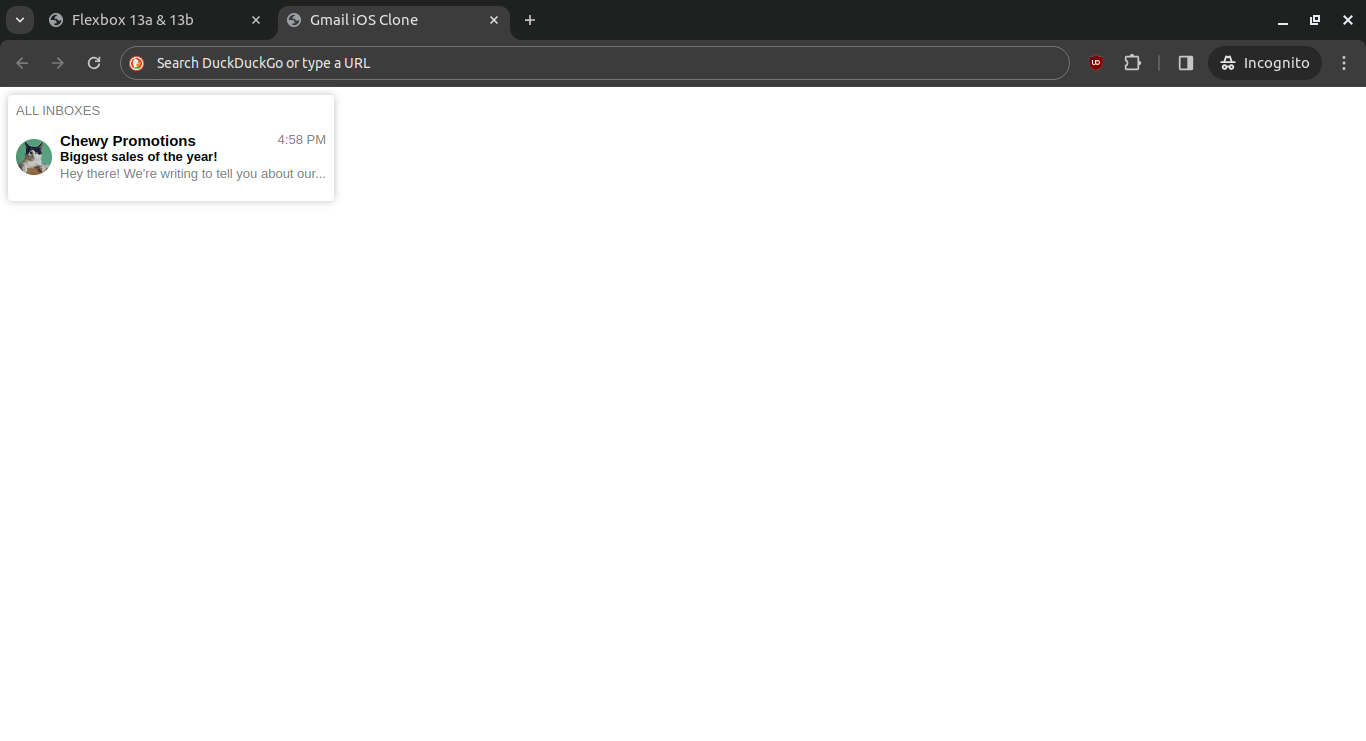
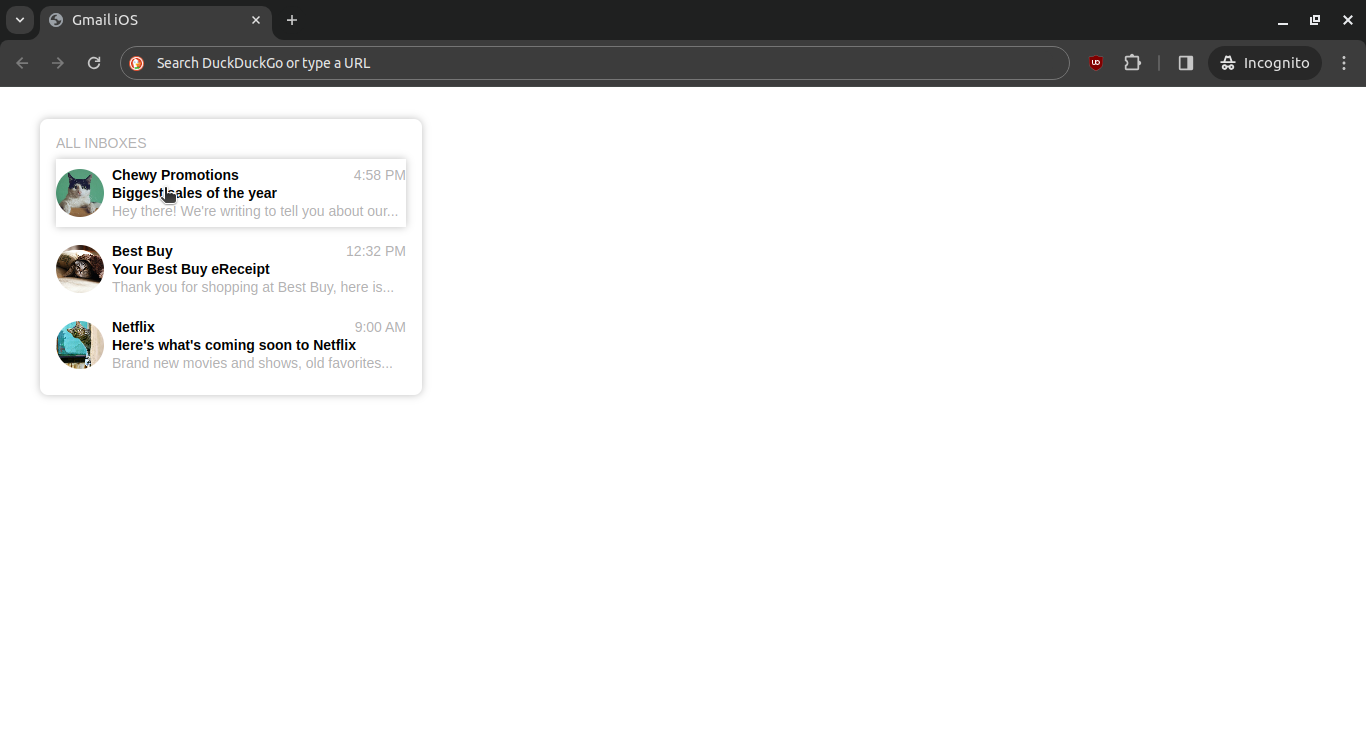
feat: Gmail iOS clone
multiple emails are enabled now.

diff --git a/gmail-ios-clone/index.html b/gmail-ios-clone/index.html
@@ -1,29 +1,64 @@
 <!doctype html>
 <html>
 <head>
-    <title>Gmail iOS Clone</title>
+    <title>Gmail iOS</title>
     <link rel="stylesheet" href="style.css">
 </head>
 <body>
-    <div class="border-per-email">
-        <div class="type-email">ALL INBOXES</div>
+    <div class="outer-box">
+
+        <p class="all-inboxes">ALL INBOXES</p>
+
         <div class="email">
-            <div class="photo-div">
-                <img class="photo-img" src="cat-1.jpg">
+            <div class="profile-picture-div">
+                <img class="profile-picture-img" src="cat-1.jpg">
             </div>
-            <div class="text-div">
-                <div class="sender">
-                    <span class="sender-span">Chewy Promotions</span>
-                    <span class="time">4:58 PM<span>
-                </div>
-                <div class="header">
-                    Biggest sales of the year!
-                </div>
-                <div class="content">
+            <div class="content">
+                <p class="sender-and-time">
+                    <span class="sender">Chewy Promotions</span>
+                    <span class="time">4:58 PM</span>
+                </p>
+                <p class="header">Biggest sales of the year</p>
+                <p class="snapshot">
                     Hey there! We're writing to tell you about our...
-                </div>
+                </p>
             </div>
         </div>
-    </div>    
+
+        <div class="email">
+            <div class="profile-picture-div">
+                <img class="profile-picture-img" src="cat-2.jpg">
+            </div>
+            <div class="content">
+                <p class="sender-and-time">
+                    <span class="sender">Best Buy</span>
+                    <span class="time">12:32 PM</span>
+                </p>
+                <p class="header">Your Best Buy eReceipt</p>
+                <p class="snapshot">
+                    Thank you for shopping at Best Buy, here is...
+                </p>
+            </div>
+        </div>
+
+        <div class="email">
+            <div class="profile-picture-div">
+                <img class="profile-picture-img" src="cat-3.jpg">
+            </div>
+            <div class="content">
+                <p class="sender-and-time">
+                    <span class="sender">Netflix</span>
+                    <span class="time">9:00 AM</span>
+                </p>
+                <p class="header">
+                    Here's what's coming soon to Netflix
+                </p>
+                <p class="snapshot">
+                    Brand new movies and shows, old favorites...
+                </p>
+            </div>
+        </div>
+
+    </div>
 </body>
 </html>

diff --git a/gmail-ios-clone/style.css b/gmail-ios-clone/style.css
@@ -1,59 +1,62 @@
-p, div {
+p {
+    color: #B3B2B3;
     font-family: Arial;
-    font-size: 13px;
+    font-size: 14px;
 }
 
-.border-per-email {
-    border-radius: 4px;
+.outer-box {
+    width: 350px;
+
+    /* border: 1px solid #B3B2B3; */
+    border: none;
+    border-radius: 8px;
+    padding: 16px;
+    margin: 32px;
+
     box-shadow: 0 0 8px rgba(0,0,0,0.25);
-    padding: 8px;
-    width: 310px;
-    height: 90px;
 }
 
-.type-email, .time, .content {
-    color: gray;
-}
-
-.type-email {
-    margin-bottom: 14px;
+.all-inboxes {
+    margin: 0;
 }
 
 .email {
     display: flex;
     justify-content: space-between;
-    width: 100%;
-}
-
-.photo-div {
-    display: flex;
-    justify-content: center;
     align-items: center;
-    margin-right: 0;
+    margin-top: 8px;
+    cursor: pointer;
+    transition: box-shadow 0.15s;
 }
 
-.photo-img {
-    width: 36px;
-    height: 36px;
+.email:active {
+    box-shadow: 0 0 8px rgba(0,0,0,0.25);
+}
+
+.profile-picture-div {
+    width: 56px;
+    display: flex;
+    align-items: center;
+}
+
+.profile-picture-img {
+    width: 48px;
+    height: 48px;
+    border-radius: 24px;
     object-fit: cover;
-    border-radius: 18px;
-    
 }
 
-.sender {
+.content {
+    flex: 1;
+    line-height: 4px;
+}
+
+.sender-and-time {
     display: flex;
     justify-content: space-between;
 }
 
-.sender-span {
+.sender, .header {
+    color: black;
     font-weight: bold;
-    font-size: 15px;
-}
-
-.header {
-    font-weight: bold;
-}
-
-.content {
-    margin-top: 2px;
 }

diff --git a/gmail-ios-clone/README.md b/gmail-ios-clone/README.md
@@ -1,4 +1,4 @@
-Gmail iOS clone from [SimpleWebDev exercise 13c](https://www.youtube.com/watch?v=G3e-cpL7ofc&list=PLEPye7A7EcQZrT3VSBb7jtxnxIfY3yyG6&index=3&t=16094s).
+Gmail iOS clone from [SimpleWebDev exercise 13e](https://youtu.be/G3e-cpL7ofc?list=PLEPye7A7EcQZrT3VSBb7jtxnxIfY3yyG6&t=17066).
 
 # Expectation
 ![expected result](expectation.png)
